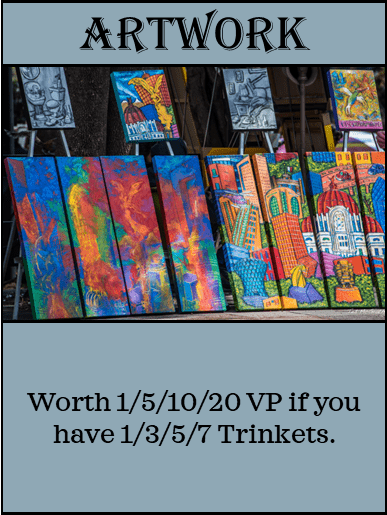
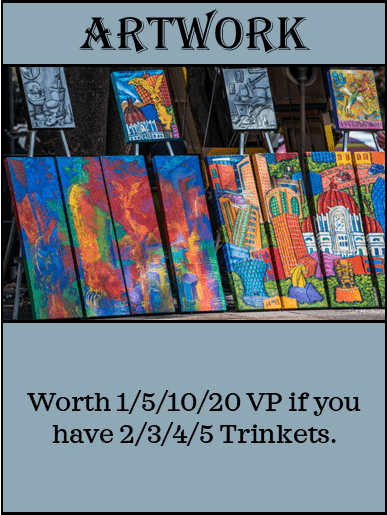
Fix final sale Pepper bug and modify scoring for Artwork and Cherries

diff --git a/script.js b/script.js
@@ -32,8 +32,8 @@ app.use("/static", express.static('./static/'));
 
 const io = new Server(httpServer, {
     cors: {
-        origin: "http://marketplace-pfci.onrender.com",
-        //origin: "http://127.0.0.1:5500",
+        //origin: "http://marketplace-pfci.onrender.com",
+        origin: "http://127.0.0.1:5500",
 }
 });
 
@@ -428,14 +428,14 @@ io.on("connection", (socket) => {
                 const player = players.find(player => player.playerNum == playerNum);
                 players[i].numCoins -= (players[i].choice[0] + players[i].choice[1]);
                 players[i].finalSaleCoins += (players[i].choice[0] + players[i].choice[1]);
-                if(players[i].choice[0] > (avg1)){
+                if(players[i].choice[0] > avg1){
                     players[i].tableau.push(finalCrops[0]);
                     if (finalCrops[0].onPlay != "none" && finalCrops[0].onPlay != "loseGood"){
                         eval(finalCrops[0].onPlay);
                     }
                     io.emit("goodPurchased", finalCrops[0], i)
                 }
-                if(players[i].choice[1] > (avg2)){
+                if(players[i].choice[1] > avg2){
                     players[i].tableau.push(finalCrops[1]);
                     if (finalCrops[1].onPlay != "none" && finalCrops[1].onPlay != "loseGood"){
                         eval(finalCrops[1].onPlay);
@@ -446,7 +446,7 @@ io.on("connection", (socket) => {
             // pepper checks
             if (finalCrops[0].onPlay == "loseGood"){
                 for (let i = 0; i < players.length; i++){
-                    if(players[i].choice[0] <= (avg1)){
+                    if (players[i].choice[0] <= (avg1)){
                         players[i].waitingOn = "loseGood";
                         players[i].isReady = false;
                         io.emit("updatePlayerStatus", false, i);
@@ -456,7 +456,7 @@ io.on("connection", (socket) => {
             }
             else if (finalCrops[1].onPlay == "loseGood"){
                 for (let i = 0; i < players.length; i++){
-                    if(players[i].choice[0] <= (avg1)){
+                    if (players[i].choice[1] <= (avg2)){
                         players[i].waitingOn = "loseGood";
                         players[i].isReady = false;
                         io.emit("updatePlayerStatus", false, i);
@@ -745,7 +745,7 @@ function scoreTableau(player, modifier, evaluatedMasks, evaluatedGuavas, isLastR
         }
         resetPlayerStates();
         setTimeout(() => {io.emit("turnUpdate", players)}, 2000*players.length);
-        setTimeout(() => {resetGameState()}, 10000);
+        //setTimeout(() => {resetGameState()}, 10000);
     }
 }
 

diff --git a/static/Cards/Fruits.js b/static/Cards/Fruits.js
@@ -1,5 +1,5 @@
 export const allFruits = [
-    {
+ /*   {
         "name": "Apples",
         "type": "Fruit",
         "image": "static/Images/Apples.png",
@@ -36,7 +36,7 @@ export const allFruits = [
         "onPlay": "none",
         "active": "none",
         "ongoing": "none",
-        "VP": "3*Math.min(player.numCoins/4, player.getNumFruits())",
+        "VP": "4*Math.min(Math.floor(player.numCoins/7), player.getNumFruits())",
         "deckRestriction": "false"
     },
     {
@@ -69,7 +69,7 @@ export const allFruits = [
         "VP": "0",
         "deckRestriction": "false"
     },
-    {
+*/    {
         "name": "Kiwis",
         "type": "Fruit",
         "image": "static/Images/Kiwis.png",
@@ -129,7 +129,7 @@ export const allFruits = [
         "VP": "2*(player.tableau.filter(good => ((players[player.neighborNums[0]].tableau.includes(good) + players[player.neighborNums[1]].tableau.includes(good)) == 1)).length)",
         "deckRestriction": "false"
     },
-    {
+/*    {
         "name": "Pineapples",
         "type": "Fruit",
         "image": "static/Images/Pineapples.png",
@@ -148,5 +148,5 @@ export const allFruits = [
         "ongoing": "none",
         "VP": "Math.floor((player.numCoins + player.finalSaleCoins)/5)",
         "deckRestriction": "false"
-    }
+    }*/
 ]

diff --git a/static/Cards/Crops.js b/static/Cards/Crops.js
@@ -1,5 +1,5 @@
 export const allCrops = [
-    {
+  /*  {
         "name": "Beans",
         "type": "Crop",
         "image": "static/Images/Beans.png",
@@ -79,7 +79,7 @@ export const allCrops = [
         "VP": "5*Math.min(player.getNumFruits(), player.getNumCrops(), player.getNumTrinkets())",
         "deckRestriction": "false"
     },
-    {
+ */   {
         "name": "Peppers",
         "type": "Crop",
         "image": "static/Images/Peppers.png",
@@ -140,7 +140,7 @@ export const allCrops = [
         "VP": "4*Math.floor(player.getNumCrops()/2)",
         "deckRestriction": "false"
     },
-    {
+ /*   {
         "name": "Wheat",
         "type": "Crop",
         "image": "static/Images/Wheat.png",
@@ -149,5 +149,5 @@ export const allCrops = [
         "ongoing": "none",
         "VP": "4",
         "deckRestriction": "false"
-    }
+    }*/
 ] 

diff --git a/static/Cards/Trinkets.js b/static/Cards/Trinkets.js
@@ -6,7 +6,7 @@ export const allTrinkets = [
         "onPlay": "none",
         "active": "none",
         "ongoing": "none",
-        "VP": "(player.getNumTrinkets() >= 1)*1 + (player.getNumTrinkets() >= 3)*4 + (player.getNumTrinkets() >= 5)*5 + (player.getNumTrinkets() >= 7)*10",
+        "VP": "(player.getNumTrinkets() >= 2)*1 + (player.getNumTrinkets() >= 3)*4 + (player.getNumTrinkets() >= 4)*5 + (player.getNumTrinkets() >= 5)*10",
         "deckRestriction": "false"
     },
     {
